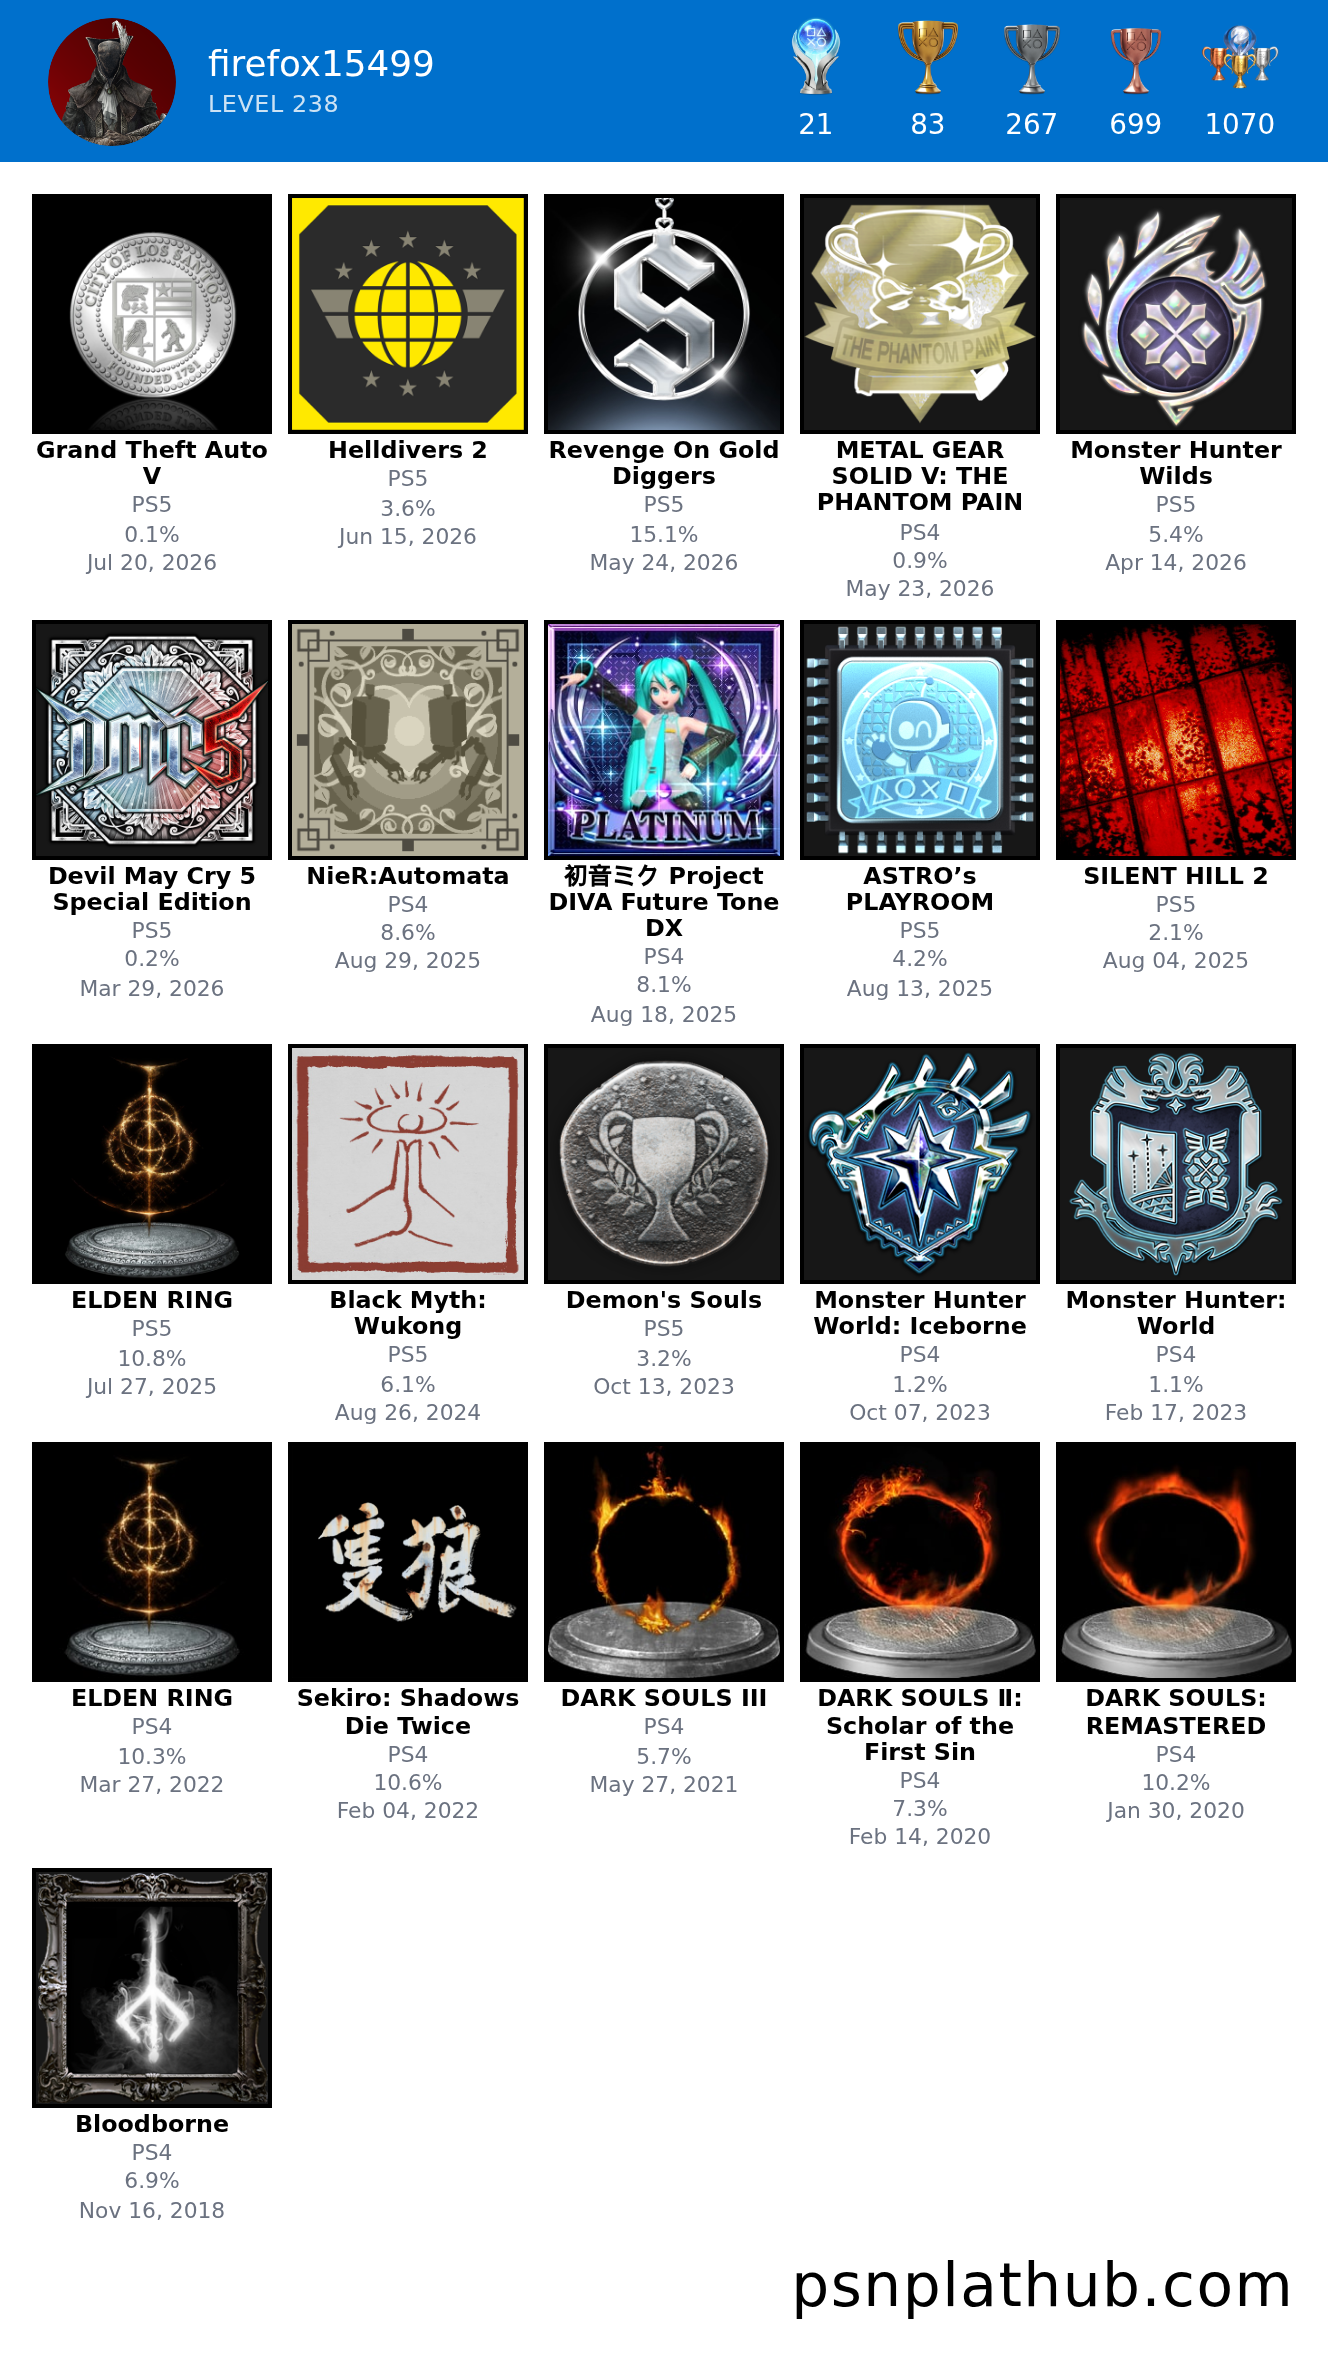
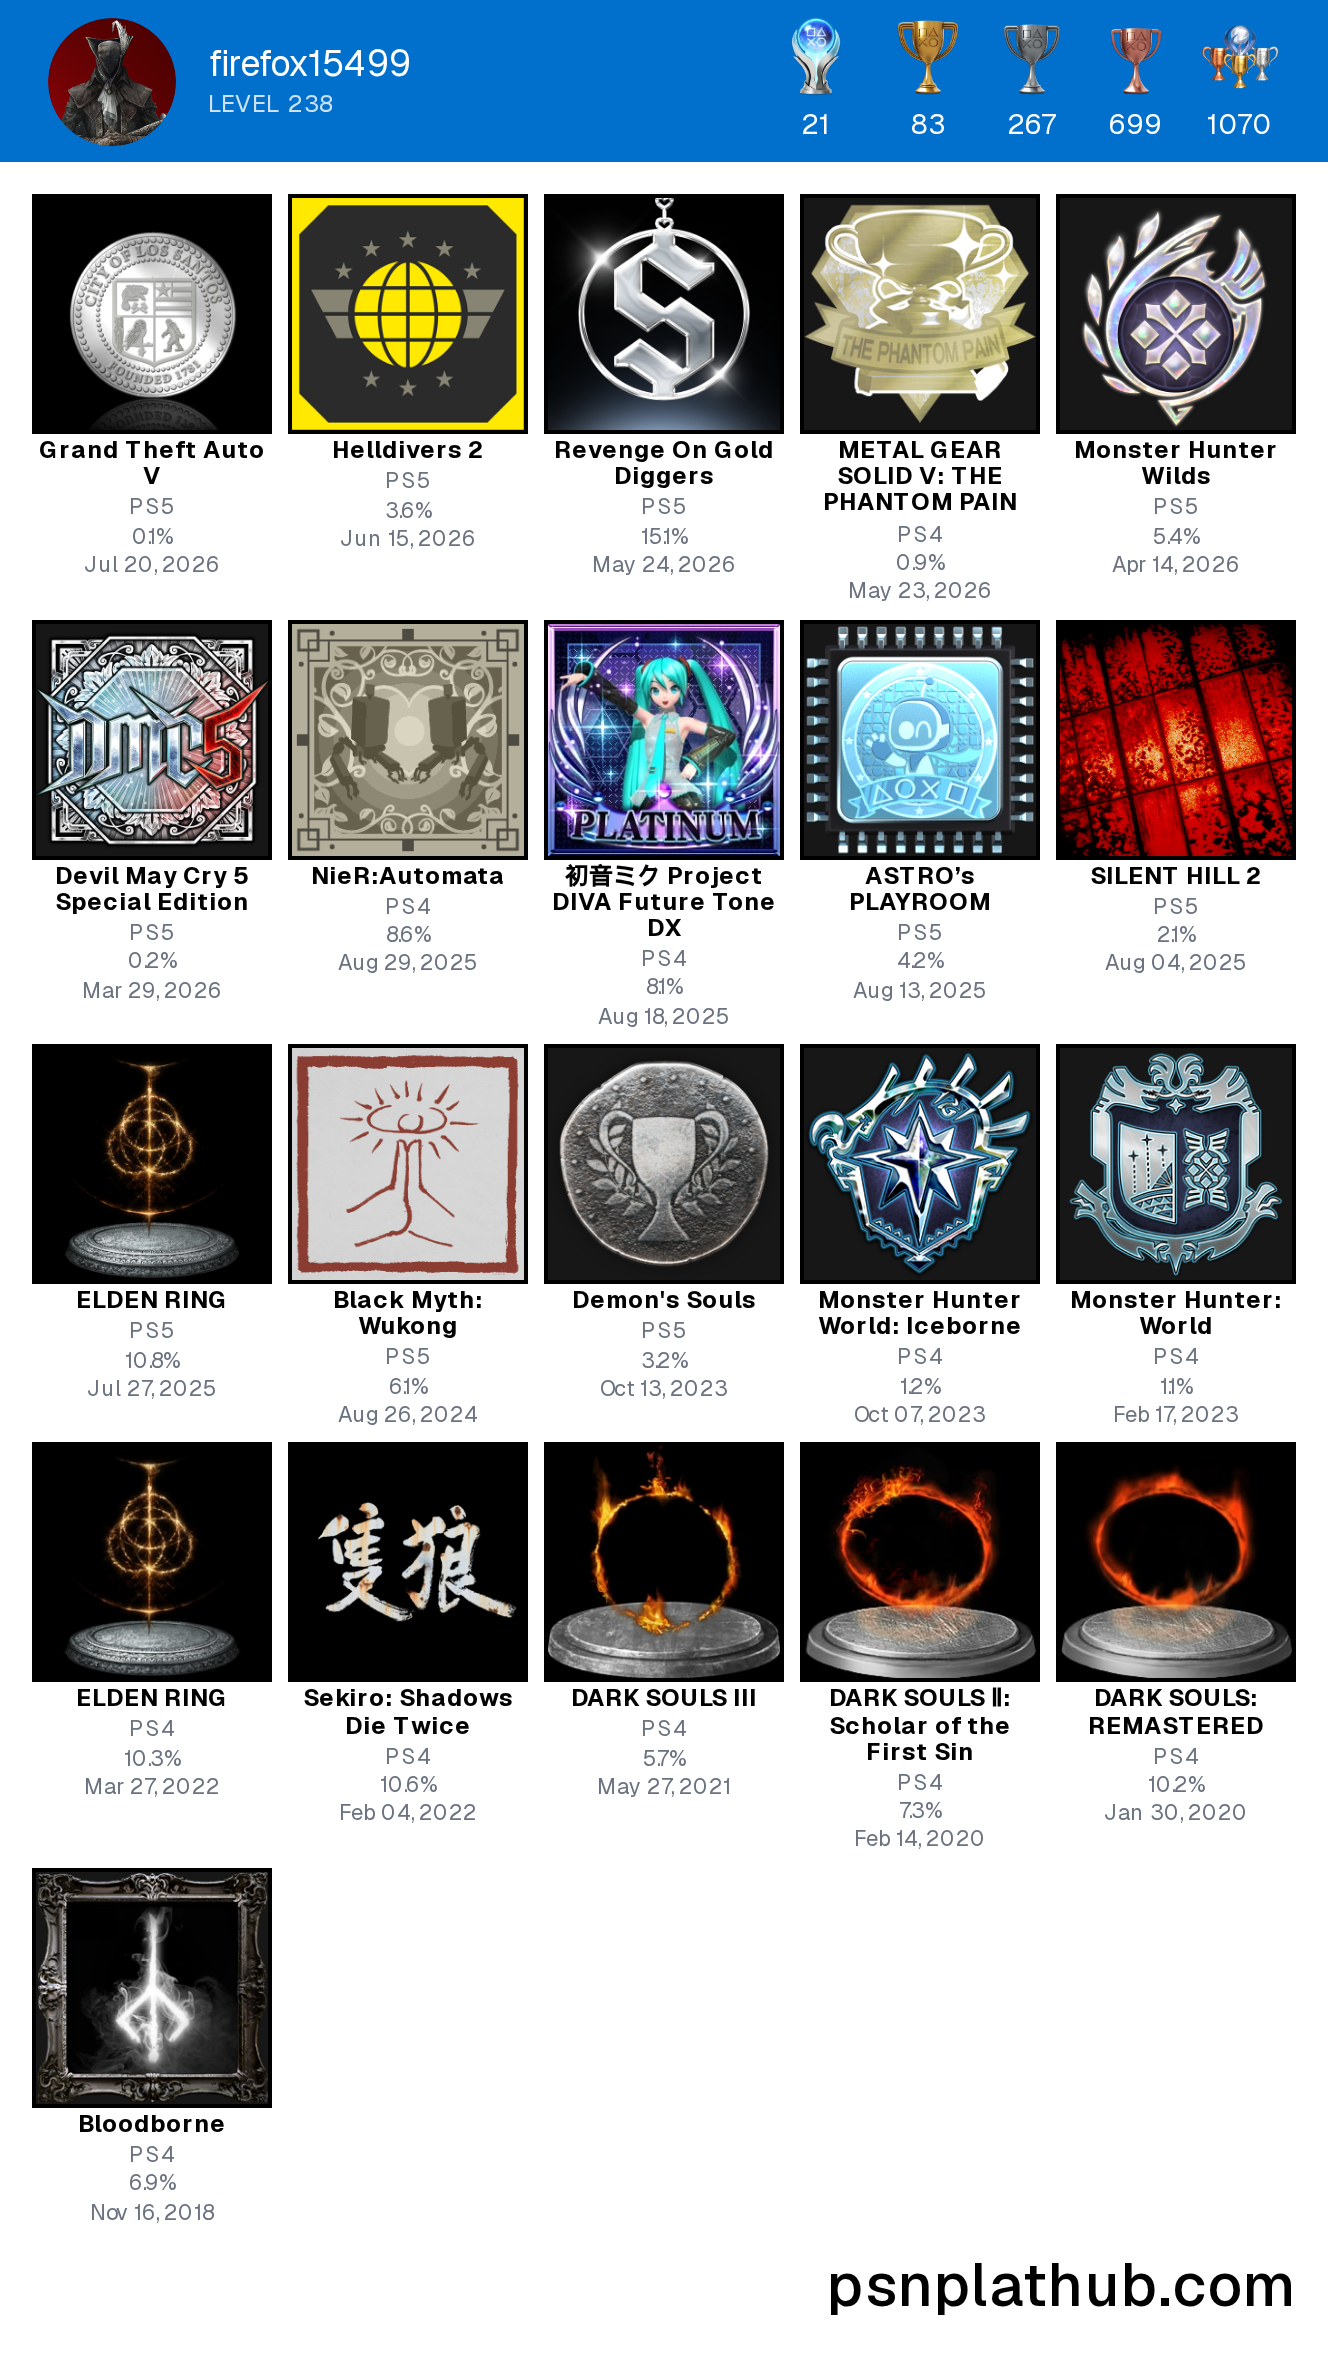
Pin mosaic text to the Geist webfont and pin text sizes to site defaults

diff --git a/scripts/capture_mosaic.py b/scripts/capture_mosaic.py
@@ -29,6 +29,13 @@ OVERRIDES = {
     "showGameTitle": True,                # game title under each icon
     "showFullGameTitle": True,            # full title, never truncated
     "isGameTitleTextBold": True,          # site default: bold game title
+    # text sizes -- all pinned to the site defaults so they can't drift
+    "headerUsernameSize": 18,             # px
+    "headerTrophyNumberSize": 14,         # px
+    "gameTitleTextSize": 4,               # site scale step, not px
+    "platformTextSize": 3,
+    "platRarityTextSize": 3,
+    "platEarnedDateTextSize": 3,
     # header text legibility on the blue background (delete these 3 for black):
     "headerTextColor": "#ffffff",
     "headerUsernameColor": "#ffffff",
@@ -52,6 +59,25 @@ HEADER_TAG_JS = """
 }
 """
 
+# psnplathub self-hosts Geist but its --font-geist-sans var resolves to an empty
+# string, so text falls back to the runner's system font (DejaVu Sans on Linux) and
+# the PNG looks nothing like the site in a desktop browser. Pin the family to the
+# site's intended font and wait for the webfont before exporting -- the @font-face
+# rules are same-origin, so html-to-image can embed them.
+FONT_FAMILY = "Geist"
+FONT_CSS = f'body, body * {{ font-family: "{FONT_FAMILY}", sans-serif !important; }}'
+FONT_LOAD_JS = """
+async (family) => {
+    // Load every weight the mosaic uses, for the glyphs actually on the page, so
+    // all unicode-range subsets are fetched before the capture.
+    const sample = document.body.innerText.slice(0, 20000);
+    await Promise.all(['400', '500', '600', '700'].map(
+        w => document.fonts.load(`${w} 16px "${family}"`, sample).catch(() => null)));
+    await document.fonts.ready;
+    return document.fonts.check(`400 16px "${family}"`);
+}
+"""
+
 
 def get(url):
     req = urllib.request.Request(url, headers={"User-Agent": "psn-mosaic-bot"})
@@ -71,6 +97,7 @@ def signature():
         "level": prof.get("trophyLevel"),
         "settings": OVERRIDES,
         "headerFontWeight": HEADER_FONT_WEIGHT,
+        "fontFamily": FONT_FAMILY,
     }
     return hashlib.sha256(json.dumps(payload, sort_keys=True).encode()).hexdigest()
 
@@ -100,9 +127,12 @@ def main():
         page.reload(wait_until="networkidle")
         page.wait_for_timeout(6000)
 
-        page.add_style_tag(content=HEADER_CSS)
+        page.add_style_tag(content=FONT_CSS + HEADER_CSS)
         if not page.evaluate(HEADER_TAG_JS):
             raise SystemExit("Profile header not found (site may have changed)")
+        if not page.evaluate(FONT_LOAD_JS, FONT_FAMILY):
+            raise SystemExit(f"{FONT_FAMILY} webfont did not load (would fall back to a system font)")
+        page.wait_for_timeout(1500)  # let the reflow from the new metrics settle
 
         btns = page.get_by_role("button")
         idx = next(
